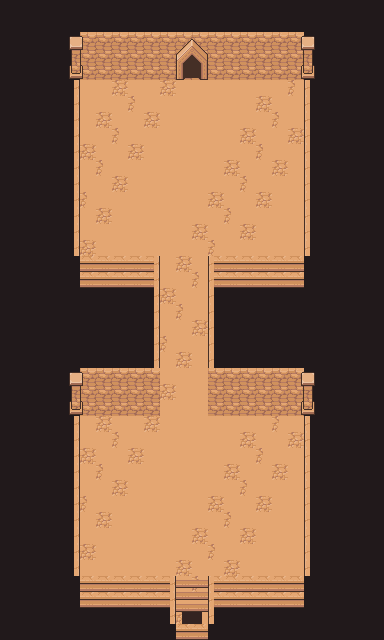
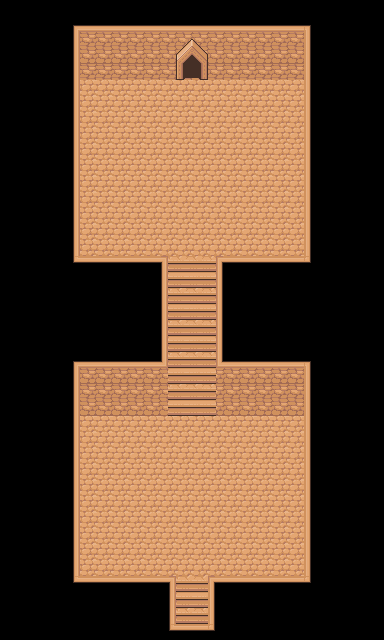
Rebuild pyramid rooms and add room-wide blockable Spider Queen slam

diff --git a/js/spider-queen-boss.js b/js/spider-queen-boss.js
@@ -1,6 +1,6 @@
 /* Combat uses the same four-direction poses as the north-field audition. */
 const SpiderQueenBoss=(()=>{
-  const shots=[],splashes=[];let map='',web=null,learned=false;
+  const shots=[],splashes=[],waves=[];let map='',web=null,learned=false;
   const SCALE=.8,WEB_CRAWL=19;
   const webbed=()=>!!web&&['gathering','trapped'].includes(web.phase)&&map===MAPID&&!foesHeld;
   const aboveWeb=()=>!!web&&map===MAPID&&!foesHeld;
@@ -12,7 +12,29 @@ const SpiderQueenBoss=(()=>{
     if(web&&map===MAPID&&web.cameraZoom){restoreCameraTarget();cam.z=web.cameraZoom;followCam();clampCam();}
     web=null;
   }
-  function reset(){shots.length=0;splashes.length=0;clearWeb();map=MAPID;}
+  function clearWaves(){for(const w of waves)finishGlassShieldParry(w.queen);waves.length=0;}
+  function reset(){shots.length=0;splashes.length=0;clearWaves();clearWeb();map=MAPID;}
+  const insideRoom=(f,x,y)=>!!f.expandedRoom&&x>=f.expandedRoom[0]&&y>=f.expandedRoom[1]&&x<=f.expandedRoom[2]&&y<=f.expandedRoom[3];
+  function roomThreat(){return !foesHeld&&!!MD?.pyramid&&foes.some(f=>f.kind==='spiderqueen'&&f.st!=='dead'&&insideRoom(f,P.x,P.y));}
+  function canBlockSlam(f){return f?.kind==='spiderqueen'&&f.st!=='dead'&&insideRoom(f,P.x,P.y)&&((f.queenAttack==='stomp'&&['wind','swing'].includes(f.st))||waves.some(w=>w.queen===f&&!w.hit));}
+  function slam(f){
+    const [l,t,r,b]=f.expandedRoom;
+    const maxRadius=Math.max(...[[l,t],[r,t],[l,b],[r,b]].map(([x,y])=>Math.hypot(x-f.x,y-f.y)))+16;
+    waves.push({queen:f,x:f.x,y:f.y,t:0,radius:0,maxRadius,hit:false});
+  }
+  function stepWaves(dt){
+    for(let i=waves.length-1;i>=0;i--){
+      const w=waves[i];
+      if(w.queen.st==='dead'){finishGlassShieldParry(w.queen);waves.splice(i,1);continue;}
+      w.t+=dt;w.radius=Math.min(w.maxRadius,w.maxRadius*w.t/1.05);
+      // One hit as the visible front reaches Corin. Running behind it cannot dodge it.
+      if(!w.hit&&insideRoom(w.queen,P.x,P.y)&&Math.hypot(P.x-w.x,P.y-w.y)<=w.radius+8){
+        w.hit=true;
+        if(!glassShieldDeflectFoe(w.queen))hurtPlayer(2);
+      }
+      if(w.t>=1.2){finishGlassShieldParry(w.queen);waves.splice(i,1);}
+    }
+  }
   function enter(f,state){f.st=state;f.t=0;f.hit=0;}
   function launch(f){
     const d=dir(f),v={d:[0,1],u:[0,-1],e:[1,0],w:[-1,0]}[d];
@@ -22,15 +44,16 @@ const SpiderQueenBoss=(()=>{
   }
   function step(f,dt){
     if(map!==MAPID)reset();
-    if(f.st==='dead'){if(f.t<dt*2){shots.length=0;clearWeb();}return;}
+    if(f.st==='dead'){if(f.t<dt*2){shots.length=0;clearWaves();clearWeb();}return;}
     if(!f._thinking||f.hold>0||!SpiderQueenDemo.inspect().ready)return;
     if(!seenFoe[f.kind])seenFoe[f.kind]=++seenCount;
     if(pause())return;
     f.hurt=Math.max(0,(f.hurt||0)-dt);
     if(f.queenStun>0){f.queenStun=Math.max(0,f.queenStun-dt);f.st='idle';f.t=0;return;}
     if(web&&web.queen===f&&web.phase!=='burning'){stepWebQueen(f,dt);return;}
+    if(waves.some(w=>w.queen===f)&&f.st!=='swing')return;
     f.webCool=(f.webCool??10)-dt;
-    if(f.webCool<=0&&SpiderQueenWeb.ready()&&dragonCombatHere()&&dragon.on&&!dragon.down){beginWeb(f);return;}
+    if(f.webCool<=0&&!waves.length&&SpiderQueenWeb.ready()&&dragonCombatHere()&&dragon.on&&!dragon.down){beginWeb(f);return;}
     f.venomCool=Math.max(0,(f.venomCool||0)-dt);f.attackCool=Math.max(0,(f.attackCool||0)-dt);
     const target=targetFor(f),dx=target.x-f.x,dy=target.y-f.y,d=Math.hypot(dx,dy);
     if(f.glassBlockHold>0){f.glassBlockHold=Math.max(0,f.glassBlockHold-dt);f.x=f.glassBlockAnchorX;f.y=f.glassBlockAnchorY;return;}
@@ -41,12 +64,9 @@ const SpiderQueenBoss=(()=>{
       if(!f.hit&&f.t>=(f.queenAttack==='spit'?.6:.82)){
         f.hit=1;
         if(f.queenAttack==='spit')launch(f);
-        else{
-          f.impact=.3;
-          if(d<=54){if(target.isDragon)hurtDragon(2);else if(target.isPlayer&&!glassShieldDeflectFoe(f))hurtPlayer(2);}
-        }
+        else slam(f);
       }
-      if(f.t>=(f.queenAttack==='spit'?1.1:1.5)){enter(f,'idle');f.attackCool=.8;}
+      if(f.t>=(f.queenAttack==='spit'?1.1:1.5)){if(!waves.some(w=>w.queen===f))finishGlassShieldParry(f);enter(f,'idle');f.attackCool=.8;}
       return;
     }
     setFace(f,dx,dy);
@@ -54,6 +74,7 @@ const SpiderQueenBoss=(()=>{
       f.queenAttack=d>=50?'spit':'stomp';
       f.aimX=target.x;f.aimY=target.y-(target.isDragon?14:10);
       if(f.queenAttack==='spit')f.venomCool=4.5;
+      else toast('Shockwave! Press B to block the ring.');
       enter(f,'wind');return;
     }
     if(d>40){
@@ -68,8 +89,8 @@ const SpiderQueenBoss=(()=>{
     if(pause())return;
     if(web?.phase==='burning'){web.t+=dt;if(web.t>=1.5)clearWeb();}
     const queen=foes.find(f=>f.kind==='spiderqueen'&&f.st!=='dead');
-    if(!queen){shots.length=0;clearWeb();}
-    for(const f of foes)if(f.impact>0)f.impact=Math.max(0,f.impact-dt);
+    if(!queen){shots.length=0;clearWaves();clearWeb();}
+    stepWaves(dt);
     const segment=(s,x,y,px,py)=>{const vx=s.x-x,vy=s.y-y,t=Math.max(0,Math.min(1,((px-x)*vx+(py-y)*vy)/(vx*vx+vy*vy||1)));return Math.hypot(px-x-vx*t,py-y-vy*t);};
     for(let i=shots.length-1;i>=0;i--){
       const s=shots[i],x=s.x,y=s.y;s.t+=dt;s.x+=s.vx*dt;s.y+=s.vy*dt;
@@ -219,20 +240,33 @@ const SpiderQueenBoss=(()=>{
     ctx.restore();
   }
   function frameCamera(){
-    if(!aboveWeb()||mode!=='play'||camFree)return;
+    if(!aboveWeb()||web.phase==='casting'||mode!=='play'||camFree)return;
     restoreCameraTarget();
-    const [l,t,r,b]=web.queen.expandedRoom;
-    cam.z=Math.min(web.cameraZoom,(VW-24)/(r-l+40),(VH-24)/(b-t+96));
-    cam.x=(l+r)/2-VW/cam.z/2;cam.y=(t+b)/2-24-VH/cam.z/2;
+    // Frame the three characters, not the chamber's empty corners. Tighten as she approaches.
+    const actors=[web.queen,P,dragon];
+    const l=Math.min(...actors.map(a=>a.x))-42,r=Math.max(...actors.map(a=>a.x))+42;
+    const t=Math.min(...actors.map(a=>a.y))-78,b=Math.max(...actors.map(a=>a.y))+24;
+    cam.z=Math.min(web.cameraZoom,(VW-24)/(r-l),(VH-24)/(b-t));
+    cam.x=(l+r)/2-VW/cam.z/2;cam.y=(t+b)/2-VH/cam.z/2;
   }
   function addEffects(list){
     if(map!==MAPID||!MD?.pyramid||foesHeld)return;
+    for(const w of waves)list.push({queenWave:w,x:w.x,y:w.y,sy:-1e7});
     if(web)list.push({queenWeb:true,x:0,y:0,sy:1e8});
     for(const s of shots)list.push({queenVenom:s,x:s.x,y:s.y,sy:s.y+48});
     for(const s of splashes)list.push({queenSplash:s,x:s.x,y:s.y});
   }
   function draw(o){
     if(o.queenWeb){drawWeb();return true;}
+    if(o.queenWave){
+      const w=o.queenWave,[l,t,r,b]=w.queen.expandedRoom;
+      ctx.save();ctx.beginPath();ctx.rect(l,t,r-l,b-t);ctx.clip();
+      ctx.globalAlpha=Math.min(1,Math.max(0,(1.2-w.t)/.22));
+      for(const [offset,width,color] of [[-10,8,'#c28c60'],[-4,4,'#e6ba80'],[0,2,'#fff0bc']]){
+        ctx.strokeStyle=color;ctx.lineWidth=width;ctx.beginPath();ctx.arc(w.x,w.y,Math.max(0,w.radius+offset),0,Math.PI*2);ctx.stroke();
+      }
+      ctx.restore();return true;
+    }
     if(!o.queenBoss&&!o.queenVenom&&!o.queenSplash)return false;
     if(!SpiderQueenDemo.inspect().ready)return true;
     ctx.save();ctx.imageSmoothingEnabled=false;
@@ -243,7 +277,6 @@ const SpiderQueenBoss=(()=>{
       const frame=SpiderQueenDemo.frame(dir(f),action,f.t);
       if(f.st==='dead')ctx.globalAlpha=Math.max(0,1-f.t);
       ctx.fillStyle='rgba(20,9,25,.25)';ctx.beginPath();ctx.ellipse(f.x,f.y-6,28,7,0,0,Math.PI*2);ctx.fill();
-      if(f.impact>0){ctx.strokeStyle='#ecd4a4';ctx.beginPath();ctx.ellipse(f.x,f.y-6,34+(1-f.impact/.3)*8,10,0,0,Math.PI*2);ctx.stroke();}
       drawPixelImage(ctx,frame,0,0,128,96,Math.round(f.x-64*SCALE),Math.round(f.y-90*SCALE),Math.round(128*SCALE),Math.round(96*SCALE));
       if(f.queenStun>0){
         ctx.fillStyle='#ffe8a6';for(let i=0;i<3;i++){const angle=tAcc*3+i*Math.PI*2/3;ctx.fillRect(Math.round(f.x+Math.cos(angle)*16)-1,Math.round(f.y-58+Math.sin(angle)*4)-1,3,3);}
@@ -259,5 +292,5 @@ const SpiderQueenBoss=(()=>{
     }
     ctx.restore();return true;
   }
-  return {capture:()=>learned,restore:value=>{learned=value===true;},step,effects,addEffects,draw,reset,webbed,aboveWeb,frameCamera,holdPlayer,holdDragon,playerPose,commandBreath,fireCast,inspect:()=>({web:web?{phase:web.phase,t:web.t,player:web.player,dragon:web.dragon,crawlSpeed:web.crawlSpeed,nets:web.points.map(p=>({...p}))}:null,shots:shots.map(s=>({...s})),splashes:splashes.map(s=>({...s}))})};
+  return {capture:()=>learned,restore:value=>{learned=value===true;},step,effects,addEffects,draw,reset,roomThreat,canBlockSlam,webbed,aboveWeb,frameCamera,holdPlayer,holdDragon,playerPose,commandBreath,fireCast,inspect:()=>({waves:waves.map(({queen,...w})=>({...w})),web:web?{phase:web.phase,t:web.t,player:web.player,dragon:web.dragon,crawlSpeed:web.crawlSpeed,nets:web.points.map(p=>({...p}))}:null,shots:shots.map(s=>({...s})),splashes:splashes.map(s=>({...s}))})};
 })();

diff --git a/index.html b/index.html
@@ -446,7 +446,7 @@ window.addEventListener("unhandledrejection", function (e) {
 <script src="js/millwood-interiors.js?v=20260930-complete-station"></script>
 <script src="js/generated/game-part-1.js?v=20260930-craftsmen-idle" onerror="(document.getElementById('bootMsg')||document.getElementById('bootmsg')).textContent='GAME PART 1 LOAD ERROR'"></script>
 <script src="js/combat-navigation.js?v=20260930-web2"></script>
-<script src="js/generated/game-part-2.js?v=20260930-web2" onerror="(document.getElementById('bootMsg')||document.getElementById('bootmsg')).textContent='GAME PART 2 LOAD ERROR'"></script>
+<script src="js/generated/game-part-2.js?v=20260930-slam3" onerror="(document.getElementById('bootMsg')||document.getElementById('bootmsg')).textContent='GAME PART 2 LOAD ERROR'"></script>
 <script src="js/animal-sprites.js?v=20260925-stable-farm-ids"></script>
 <script src="js/hunting-grounds.js?v=20260928-stable-battles"></script>
 <script src="js/hollybeck-villagers.js?v=20260930-hollybeck-lessons"></script>
@@ -468,7 +468,7 @@ window.addEventListener("unhandledrejection", function (e) {
 <script src="js/quest-map.js?v=20260930-journey-flight"></script>
 <script src="js/flight-travel.js?v=20260930-journey-flight"></script>
 <script src="js/cloud-save-core.js?v=20260927-hatch-save-controls1"></script>
-<script src="js/generated/game-part-3.js?v=20260930-web2" onerror="(document.getElementById('bootMsg')||document.getElementById('bootmsg')).textContent='GAME PART 3 LOAD ERROR'"></script>
+<script src="js/generated/game-part-3.js?v=20260930-slam3" onerror="(document.getElementById('bootMsg')||document.getElementById('bootmsg')).textContent='GAME PART 3 LOAD ERROR'"></script>
 <script src="js/blossom-routes.js?v=20260930-tavern-lessons-portraits"></script>
 <script src="js/tree-line-editor.js?v=20260929-blossom-borders"></script>
 <script>
@@ -506,9 +506,9 @@ window.addEventListener("unhandledrejection", function (e) {
 <script src="js/farm-resident.js?v=20260930-farm"></script>
 <script src="js/equipment-tutorial.js?v=20260930-equipment"></script>
 <script src="js/spider-queen-demo.js?v=20260930-web2"></script>
-<script src="js/desert-pyramid.js?v=20260930-web2"></script>
+<script src="js/desert-pyramid.js?v=20260930-slam3"></script>
 <script src="js/spider-queen-web.js?v=20260930-web2"></script>
-<script src="js/spider-queen-boss.js?v=20260930-web2"></script>
+<script src="js/spider-queen-boss.js?v=20260930-slam3"></script>
 <script src="js/conversation-branches.js?v=20260929-authored-conversations"></script>
 <script src="js/conversation-flow.js?v=20260930-world-greetings"></script>
 <script src="js/conversation-view.js?v=20260930-world-greetings"></script>

diff --git a/js/desert-pyramid.js b/js/desert-pyramid.js
@@ -1,6 +1,6 @@
 /* The authored desert detour and sandstone pyramid. */
 const DesertPyramid = (()=>{
-  const BASE='assets/interiors/desert-pyramid/', VERSION='20260930-pyramid1';
+  const BASE='assets/interiors/desert-pyramid/', VERSION='20260930-slam3';
   const X=1069*16+8,Y=30*16+16;
   const routes=[
     {id:9182,x0:1392,y0:93,x1:1294,y1:41,pts:[[1392,93],[1392,41],[1294,41]]},
@@ -8,6 +8,15 @@ const DesertPyramid = (()=>{
     {id:9184,x0:1177,y0:51,x1:1069,y1:30,pts:[[1177,51],[1129,51],[1129,83],[1082,83],[1069,83],[1069,30]]}
   ].map(f=>({...f,kind:'route',w:5,band:20,style:'desert',a0:null,a1:null}));
   let ready=false;
+  const stoneFrames=new Map();
+  function stoneFrame(name){
+    if(stoneFrames.has(name))return stoneFrames.get(name);
+    const s=SPR[name],c=document.createElement('canvas');c.width=s[2];c.height=s[3];c.pixelLocked=true;
+    const g=c.getContext('2d');g.imageSmoothingEnabled=false;
+    drawGameImage(g,sheetOf(s),s[0],s[1],s[2],s[3],0,0,s[2],s[3]);
+    g.globalCompositeOperation='source-atop';g.fillStyle='rgba(38,24,29,.30)';g.fillRect(0,0,c.width,c.height);
+    stoneFrames.set(name,c);return c;
+  }
   async function sprite(name,file,w,h,frames=1){
     const img=new Image();img.src=BASE+file+'?v='+VERSION;await img.decode();img.pixelLocked=true;
     animalSheets[name]=img;SPR[name]=[0,0,w,h,frames,name];return img;
@@ -45,7 +54,7 @@ const DesertPyramid = (()=>{
       const m=W.maps[id]={w:width/16,h:height/16,ts:16,title:'Sunken Pyramid',pyramid:true,
         templeExpanded:true,templePlan:plan,templeFloors:plan.floors,templeGateOpen:0,
         travel:id==='pyramid_entry'||id==='pyramid_queen',travel_kind:id==='pyramid_queen'?'Boss':'Dungeon',
-        roomArt:'pyramid_tiles',_roomBaseCanvas:img,bg:'#21191b',floorbg:'#daa16e',spawn:plan.spawn,
+        roomArt:'pyramid_tiles',_roomBaseCanvas:img,bg:'#000000',floorbg:'#daa16e',spawn:plan.spawn,
         terr:terrRLE(Array(width*height/256).fill(DIRT)),objs:[],scatter:[],sanim:[],fsanim:[],fobjs:[],features:[],hidden:[],regions:[],places:[],npcs:[],roomActors:[],roomBlocks:[],doors:[],foes:[],collisionOverrides:{}};
       if(id==='pyramid_queen')m.title='Sunken Pyramid — Spider Queen';
       m.base_terr=m.terr;
@@ -115,5 +124,5 @@ const DesertPyramid = (()=>{
     }
     FOE_ART.spiderqueen='pyramid_spider';
   }
-  return {prepare,prepareSpiderArt,installWorld,clearForecourt,routes};
+  return {prepare,prepareSpiderArt,installWorld,clearForecourt,stoneFrame,routes};
 })();

diff --git a/tools/build-desert-pyramid.py b/tools/build-desert-pyramid.py
@@ -1,5 +1,5 @@
 """Compose native 16px sandstone tiles into connected pyramid chambers."""
-from PIL import Image, ImageDraw
+from PIL import Image, ImageDraw, ImageFilter
 from pathlib import Path
 import json, shutil, sys
 root=Path(__file__).resolve().parents[1]
@@ -14,14 +14,14 @@ p={
 'pyramid_cache':plan([288,320],[[48,80,240,256]],[],[144,232]),
 'pyramid_halls':plan([640,640],[[64,416,256,576],[64,112,256,272],[384,112,576,272]],[[136,272,184,416],[256,176,384,224]],[160,552]),
 'pyramid_depths':plan([384,640],[[80,416,304,576],[80,80,304,256]],[[168,256,216,416]],[192,552]),
-'pyramid_queen':plan([448,416],[[48,80,400,336]],[],[224,312])}
+'pyramid_queen':plan([336,336],[[48,80,288,256]],[],[168,232])}
 def link(a,x,y,b,xx,yy):
  p[a]['doors'].append(dict(x=x,y=y,dir='u',to=b,arrival=[xx,yy-24]))
  p[b]['doors'].append(dict(x=xx,y=yy,dir='d',to=a,arrival=[x,y+32]))
 link('pyramid_entry',112,80,'pyramid_halls',160,576)
 link('pyramid_entry',208,80,'pyramid_cache',144,256)
 link('pyramid_halls',480,112,'pyramid_depths',192,576)
-link('pyramid_depths',192,80,'pyramid_queen',224,336)
+link('pyramid_depths',192,80,'pyramid_queen',168,256)
 p['pyramid_entry']['doors'].append(dict(x=160,y=576,dir='d',to='world',arrival=[1069*16+8,30*16+48]))
 for mid,room,kind,pts in [
  ('pyramid_entry',1,'mummy',[(128,152),(200,184)]),
@@ -31,47 +31,63 @@ for mid,room,kind,pts in [
  ('pyramid_halls',2,'mummy',[(440,192),(528,208)]),
  ('pyramid_depths',0,'mummy',[(136,496),(256,480)]),
  ('pyramid_depths',1,'mummy',[(144,160),(240,176)]),
- ('pyramid_queen',0,'spiderqueen',[(224,184)])]:
+ ('pyramid_queen',0,'spiderqueen',[(168,152)])]:
  for x,y in pts:p[mid]['enemies'].append([kind,x,y,p[mid]['chambers'][room]])
-for mid,ch in {'pyramid_entry':[[88,424,25,'potion']], 'pyramid_cache':[[72,104,90,'elixir'],[216,104,0,None]],'pyramid_halls':[[88,136,40,'dragonFish']], 'pyramid_depths':[[280,104,60,'potion']], 'pyramid_queen':[[376,104,160,'elixir']]}.items():p[mid]['chests']=ch
+for mid,ch in {'pyramid_entry':[[88,424,25,'potion']], 'pyramid_cache':[[72,104,90,'elixir'],[216,104,0,None]],'pyramid_halls':[[88,136,40,'dragonFish']], 'pyramid_depths':[[280,104,60,'potion']], 'pyramid_queen':[[264,104,160,'elixir']]}.items():p[mid]['chests']=ch
 p['pyramid_depths']['hazards']=[dict(id='pyramid-spikes',axis='y',cross=[168,216],lines=[288,320,352,384],lever=[256,240])]
 for mid,m in p.items():
- w,h=m['size'];im=Image.new('RGBA',(w,h),'#21191b');d=ImageDraw.Draw(im)
+ w,h=m['size'];im=Image.new('RGBA',(w,h),'#000000')
  floors=[r[:] for r in m['floors']]
+ stairs=[r[:] for r in floors[len(m['chambers']):] if r[3]-r[1]>r[2]-r[0]]
  for door in m['doors']:
-  if door['dir']=='d':floors.append([door['x']-16,door['y'],door['x']+16,door['y']+48])
+  if door['dir']=='d':
+   landing=[door['x']-16,door['y'],door['x']+16,door['y']+48]
+   floors.append(landing);stairs.append(landing)
  m['floors']=floors
  inside=lambda x,y:any(l<=x<r and t<=y<b for l,t,r,b in floors)
+ cells={(x,y) for y in range(0,h,8) for x in range(0,w,8) if inside(x+4,y+4)}
+ walls=set()
+ for x,y in cells:
+  if (x,y-8) not in cells:
+   walls.update((x,y-d) for d in range(8,49,8) if y-d>=0 and (x,y-d) not in cells)
+ visible=cells|walls
  def paste(box,x,y):im.alpha_composite(sh.crop(box),(int(x),int(y)))
- # Wall faces rise three tiles above a north boundary. All seams follow the union of rooms/halls.
- for y in range(0,h,16):
-  for x in range(0,w,16):
-   if not inside(x+8,y+8):continue
-   if not inside(x+8,y-8):
-    for yy in range(y-48,y,16):
-     if yy>=0:paste((16,48,32,64),x,yy)
-    if y>=48:paste((16,12,32,16),x,y-48)
-   if not inside(x+8,y+24):
-    for yy in [y+16,y+32]:
-     if yy<h:paste((112,96,128,112),x,yy)
-   if not inside(x-8,y+8):paste((10,16,16,32),x-6,y)
-   if not inside(x+24,y+8):paste((32,16,38,32),x+16,y)
- # Floors overdraw only their own footprints, avoiding wall slivers at joins.
- for y in range(0,h,16):
-  for x in range(0,w,16):
-   if inside(x+8,y+8):
-    paste((128,48,144,64),x,y)
-    n=(x//16*7+y//16*13)%19
-    if n in (0,1,2):paste((96+(n%2)*16,32,112+(n%2)*16,48),x,y)
- # Cap vertical-wall ends and draw the source's dark archways.
- for l,t,r,b in m['chambers']:
-  for x in [l-8,r]:
-   paste((0,80,16,128),x-4,t-48)
+ # Clip complete native textures to exact footprints, including half-tile hall joins.
+ # Only the center wall tile repeats; the source's edge tiles contain dark vertical borders.
+ for material,area in [('wall',walls),('floor',cells)]:
+  layer=Image.new('RGBA',(w,h));cut=Image.new('L',(w,h));cd=ImageDraw.Draw(cut)
+  for x,y in area:cd.rectangle((x,y,x+7,y+7),fill=255)
+  for y in range(0,h,16):
+   for x in range(0,w,16):
+    box=(16,48+(y//16%2)*16,32,64+(y//16%2)*16) if material=='wall' else (112,80,128,96)
+    layer.alpha_composite(sh.crop(box),(x,y))
+  im.paste(layer,(0,0),cut)
+ # Connected vertical passages rise on the pack's complete stair texture.
+ # The side rails join the perimeter rather than ending in floating pillar caps.
+ for l,t,r,b in stairs:
+  for y in range(t,b,16):
+   for x in range(l,r,16):
+    sx=96+((x-l)//16%4)*16;sy=96+((y-t)//16%2)*16
+    paste((sx,sy,sx+16,sy+16),x,y)
+ # One continuous rim follows the union of rooms, wall faces and stair passages.
+ # Build the outside seven pixels as a single mask, so concave corners never leave gaps.
+ mask=Image.new('L',(w,h));md=ImageDraw.Draw(mask)
+ for x,y in visible:md.rectangle((x,y,x+7,y+7),fill=255)
+ rim=Image.new('RGBA',(w,h))
+ palette=['#b77b62','#d0915d','#e6b084','#e4a672','#e4a672','#d0915d','#452f26']
+ for distance in range(7,0,-1):
+  expanded=mask.filter(ImageFilter.MaxFilter(distance*2+1))
+  color=Image.new('RGBA',(w,h),palette[distance-1]);rim.paste(color,(0,0),expanded)
+ # Native-looking mortar joints stay inside the rim and do not cut into the floors.
+ rp=rim.load();mp=mask.load()
+ for y in range(h):
+  for x in range(w):
+   if not mp[x,y] and rp[x,y][3] and rp[x,y][:3]!=(69,47,38) and ((x%16==0 and not mp[x,max(0,y-7)] and not mp[x,min(h-1,y+7)]) or (y%16==0 and not mp[max(0,x-7),y] and not mp[min(w-1,x+7),y])):
+    rp[x,y]=(208,145,93,255)
+ # The mask removes the rim's interior, retaining the exact wall/floor artwork beneath.
+ alpha=rim.getchannel('A');alpha.paste(0,(0,0),mask);rim.putalpha(alpha)
+ im.alpha_composite(rim)
  for door in m['doors']:
-  x,y=door['x'],door['y']
-  if door['dir']=='u':paste((48,80,80,128),x-16,y-48)
-  else:
-   d.rectangle((x-10,y+32,x+9,y+47),fill='#342321')
-   for yy in [y+4,y+16,y+28]:paste((112,104,128,112),x-16,yy);paste((112,104,128,112),x,yy)
+  if door['dir']=='u':paste((48,80,80,128),door['x']-16,door['y']-48)
  im.save(out/(mid+'.png'),optimize=True)
 (out/'layout.json').write_text(json.dumps(p,indent=2)+'\n')
